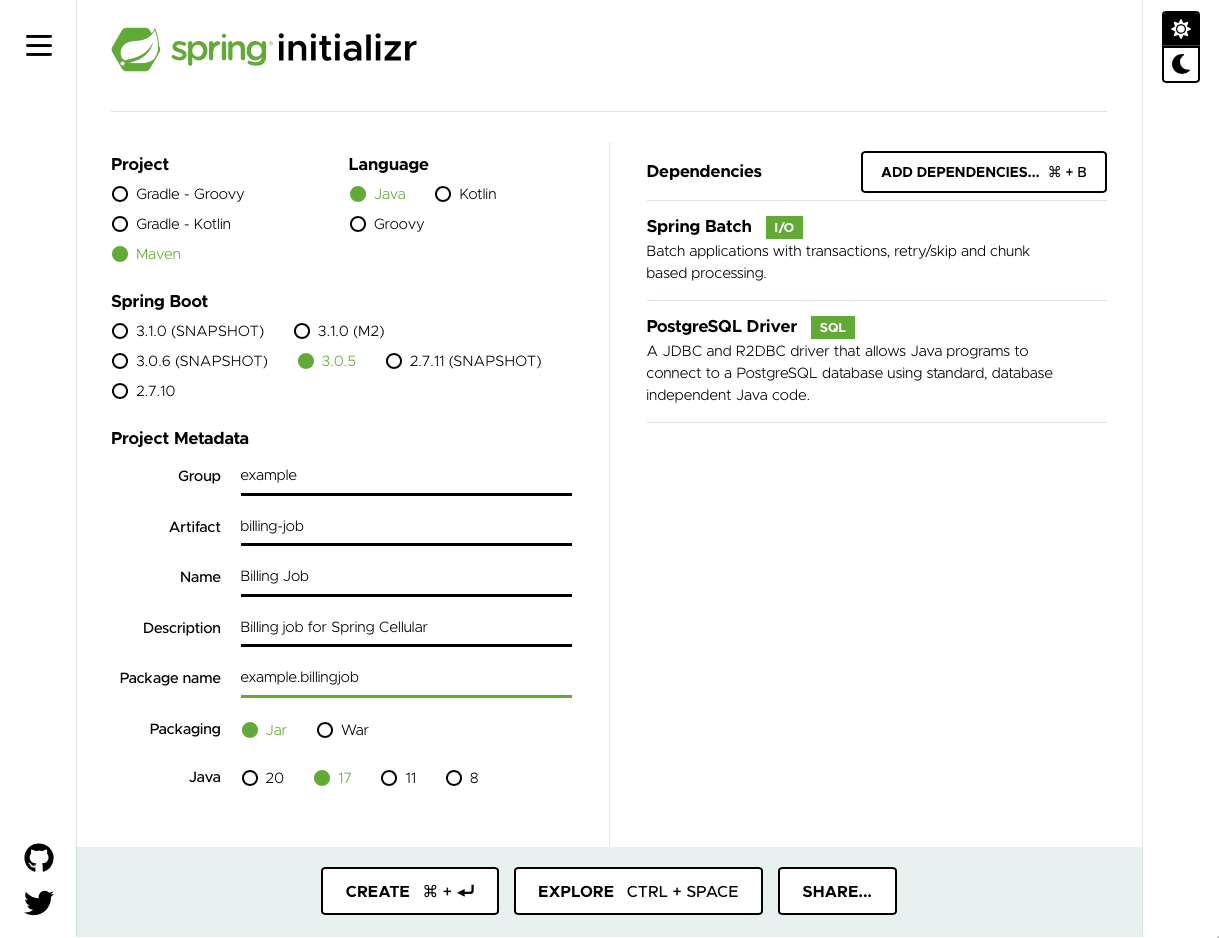
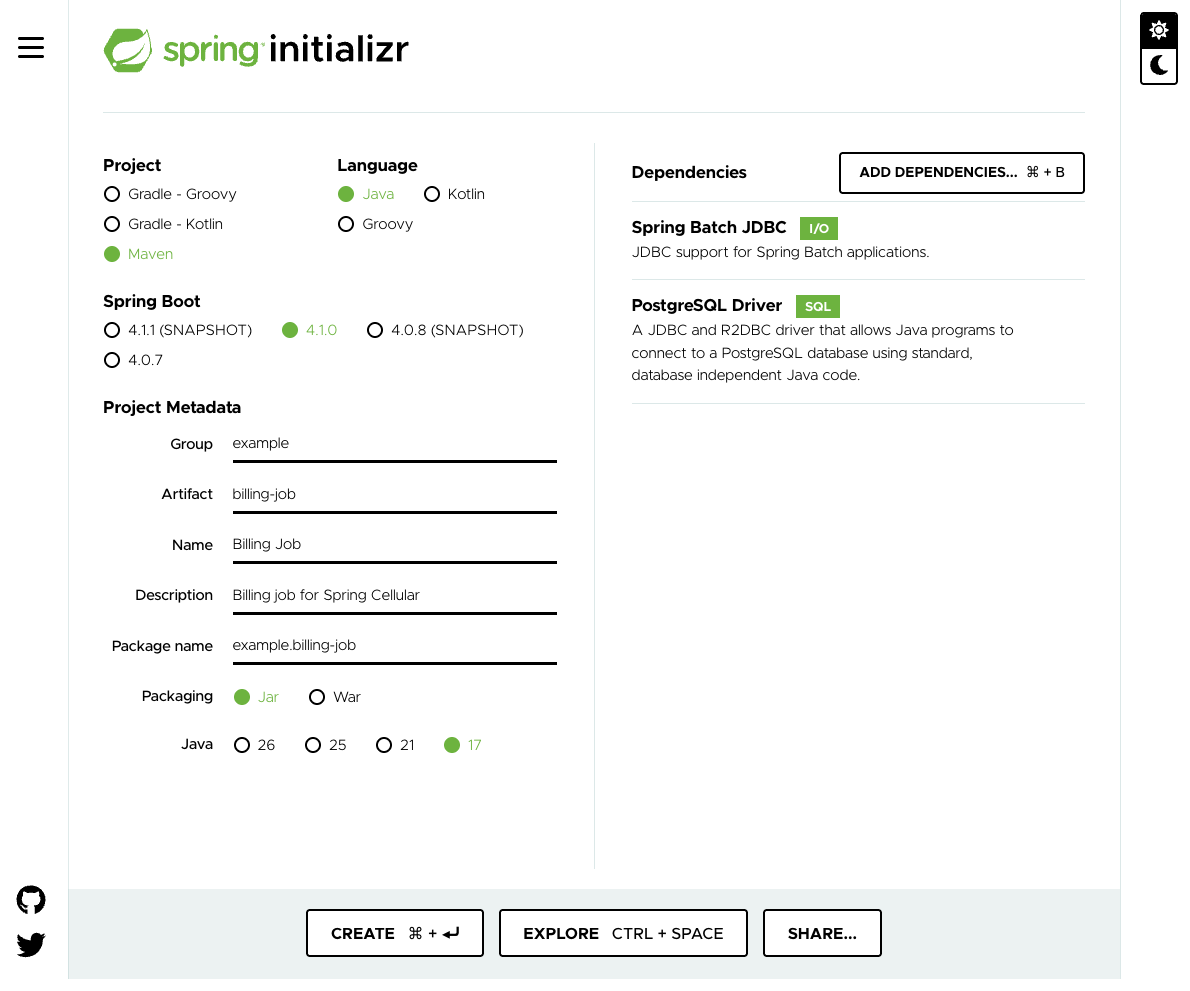
fix beta workshops

diff --git a/labs/02-spring-initializr/workshop/content/01-create-project.md b/labs/02-spring-initializr/workshop/content/01-create-project.md
@@ -64,17 +64,17 @@ Complete the following steps to use Spring Initializr to set up the Spring Cellu
        ├── main
        │   ├── java
        │   │   └── example
-       │   │       └── billingjob
+       │   │       └── billing_job
        │   │           └── BillingJobApplication.java
        │   └── resources
        │       └── application.properties
        └── test
            └── java
                └── example
-                   └── billingjob
+                   └── billing_job
                        └── BillingJobApplicationTests.java
 
-   11 directories, 8 files
+   11 directories, 7 files
    ```
 
    The project is structured as follows:

diff --git a/labs/02-spring-initializr/workshop/content/03-run-project.md b/labs/02-spring-initializr/workshop/content/03-run-project.md
@@ -1,9 +1,9 @@
 Now that the structure of the application is in place, let's check if the application is correctly configured and running as expected.
 
-In the editor tab, right-click on the `billing-job/src/main/java/example/billingjob/BillingJobApplication.java` file and select `Run Java`.
+In the editor tab, right-click on the `billing-job/src/main/java/example/billing_job/BillingJobApplication.java` file and select `Run Java`.
 
 ```editor:select-matching-text
-file: ~/exercises/billing-job/src/main/java/example/billingjob/BillingJobApplication.java
+file: ~/exercises/billing-job/src/main/java/example/billing_job/BillingJobApplication.java
 text: "@SpringBootApplication"
 description: "Right-click ➡ Run Java"
 ```

diff --git a/labs/02-spring-initializr/workshop/content/02-prepare-project.md b/labs/02-spring-initializr/workshop/content/02-prepare-project.md
@@ -7,12 +7,12 @@ For a properly structured Spring Batch project, we should not put any batch conf
 Open the editor in the `billing-job/src/main/java/example/billingjob` folder and create a new file named `BillingJobConfiguration.java` with the following content:
 
 ```editor:append-lines-to-file
-file: ~/exercises/billing-job/src/main/java/example/billingjob/BillingJobConfiguration.java
+file: ~/exercises/billing-job/src/main/java/example/billing_job/BillingJobConfiguration.java
 description: "Create BillingJobConfiguration.java"
 ```
 
 ```java
-package example.billingjob;
+package example.billing_job;
 
 import org.springframework.context.annotation.Configuration;
 
